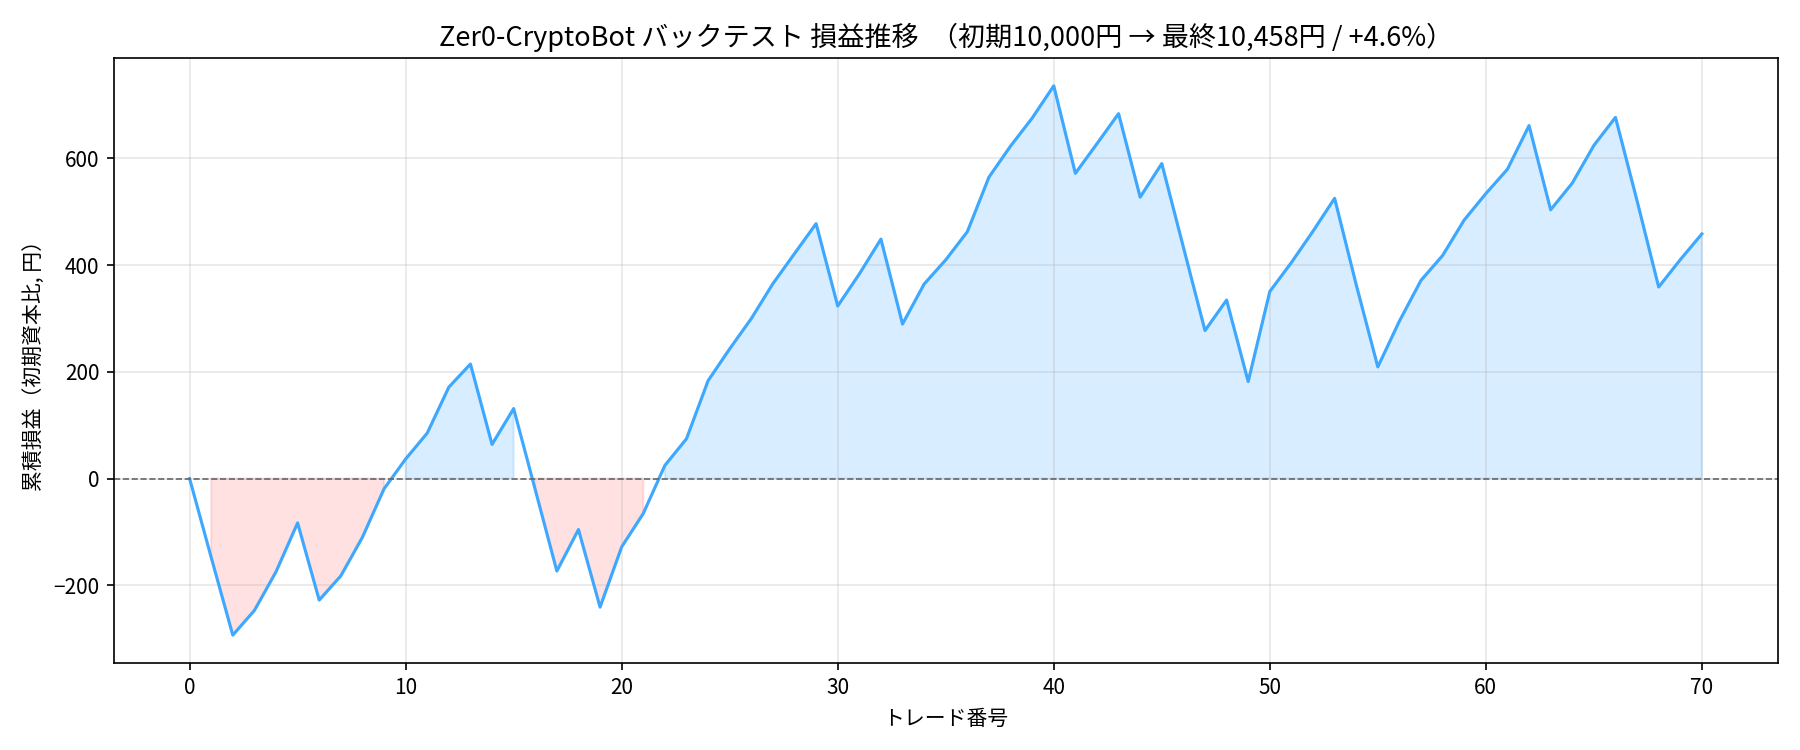
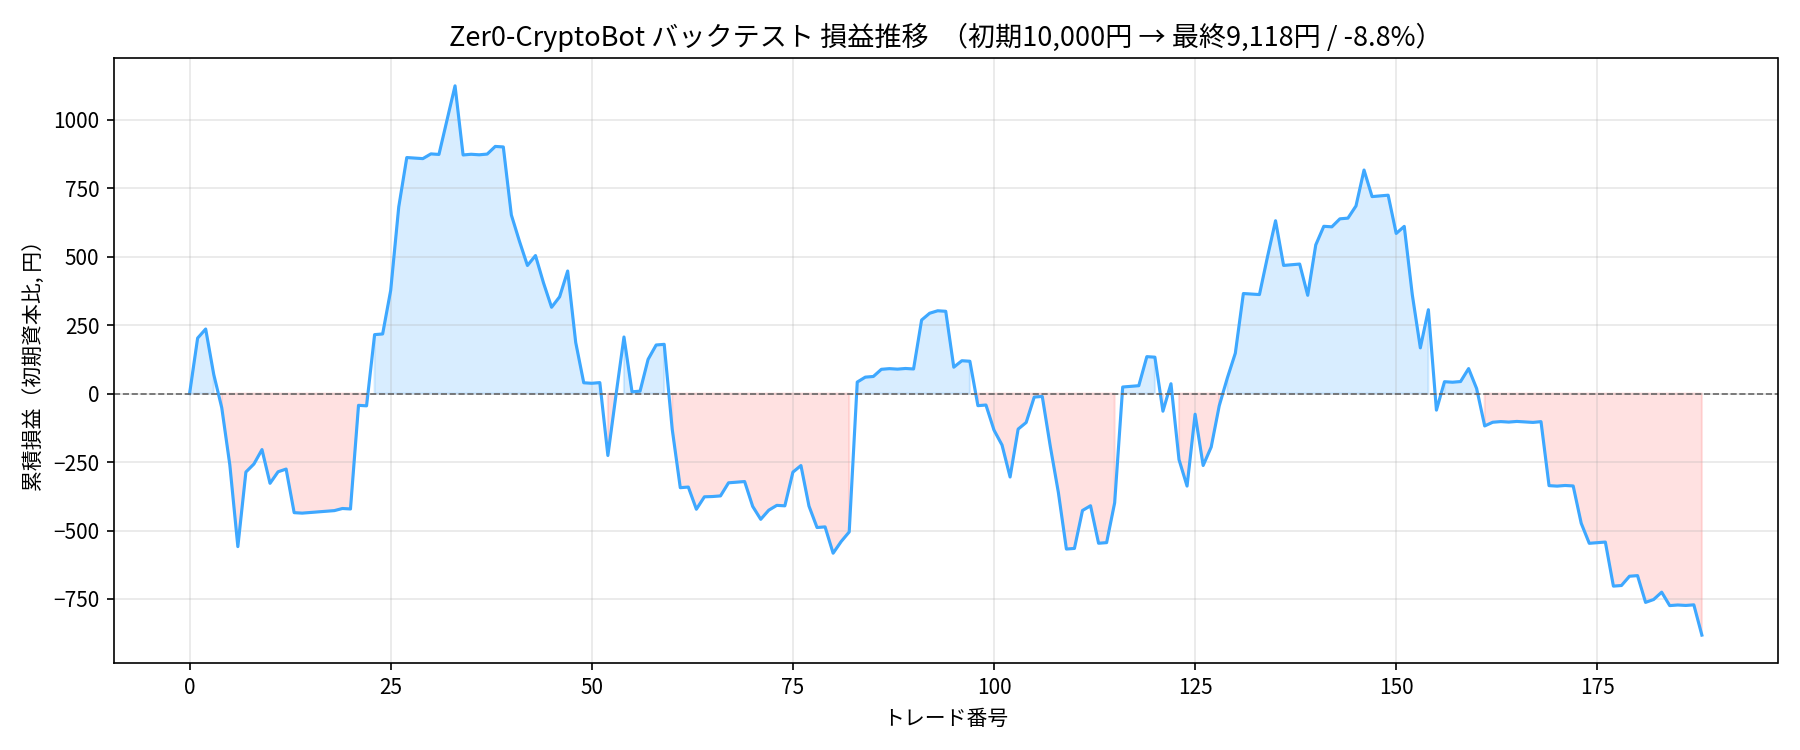
auto-sync: 2026-09-08 16:53

diff --git a/006_zer0-cryptobot/lambda/executor/lambda_function.py b/006_zer0-cryptobot/lambda/executor/lambda_function.py
@@ -7,6 +7,7 @@ v2変更: 信用取引（ロング＋ショート）対応 / ペア変更: BTC/E
 v2.8変更: TP/SL倍率を変更（TP1 2.0→1.75 / SL 1.5→2.0 / トレール 1.5→1.0）
 v3.1変更: 現実コスト（スリッページ＋手数料）込みバックテストで最適化
           （TP1 1.75→1.25 / SL 2.0→2.5 / トレール 1.0→0.75）
+v3.4変更: 本番の30分サイクルを忠実に再現したモデルで再検証し トレール 0.75→2.0
 """
 
 import os
@@ -58,7 +59,11 @@ PORTFOLIO_STATS_URL = "https://www.zer0-infra.com/ja/cryptobot-stats"
 # TP/SL 倍率（v3.1: 現実コスト込みグリッドスイープ＋ウォークフォワード検証で最適化）
 TP1_MULT    = 1.25  # TP1 = entry ± ATR × 1.25
 SL_MULT     = 2.5   # 初期SL = entry ∓ ATR × 2.5
-TRAIL_MULT  = 0.75  # トレーリング幅 = 極値 ± ATR × 0.75（最大効果・OOSでも頑健）
+# v3.4: 旧0.75はbacktest.pyのトレール判定バグ（TP1約定と同じ4h足で即決済判定してしまう）
+# 由来の誤最適化だったと判明。本番の30分サイクルを忠実に再現したモデルで再検証し、
+# 5年PF 1.49→1.82・成長率+53.5%→+108.2%（年次5ブロック全てで改善、ペアード検定p=0.0031、
+# 選択手続きごとのウォークフォワード4fold全てでOOS勝ち）を確認して2.0に変更。
+TRAIL_MULT  = 2.0   # トレーリング幅 = 極値 ± ATR × 2.0
 TP1_RATIO   = 0.3   # TP1 の数量割合
 TRAIL_RATIO = 0.7   # トレーリングSL 対象の数量割合
 SL_SLIPPAGE = 0.003 # stop_limit SL の price オフセット率（急落/急騰での未約定防止）

diff --git a/006_zer0-cryptobot/backtest/backtest.py b/006_zer0-cryptobot/backtest/backtest.py
@@ -72,9 +72,13 @@ MAX_POSITIONS   = 3
 
 # v3.1（2026-06-15採用）: 現実コスト込みグリッドスイープ＋ウォークフォワードで
 #   TP1 1.75→1.25 / SL 2.0→2.5 / トレール 1.0→0.75 に変更（PF0.96→1.15、OOSでもPF1.13で頑健）
+# v3.4（2026-09-08採用）: 本来このバックテストのトレール判定はTP1約定と同じ4h足内で
+#   即決済してしまうモデル誤差を含んでおり、0.75はその誤差込みで最適化された値だった。
+#   本番の30分サイクルを忠実に再現したモデルで再検証し トレール 0.75→2.0 に変更
+#   （5年PF 1.49→1.82・成長率+53.5%→+108.2%、年次5ブロック全て・ウォークフォワード4fold全てで改善）
 TP1_MULT   = 1.25
 SL_MULT    = 2.5
-TRAIL_MULT = 0.75
+TRAIL_MULT = 2.0
 
 # ── H1: 建値の現実化（スリッページ＋手数料）─────────────────
 # エントリースリッページ: ロングは不利方向（高く約定）、ショートも不利方向（安く約定）に 0.1%
